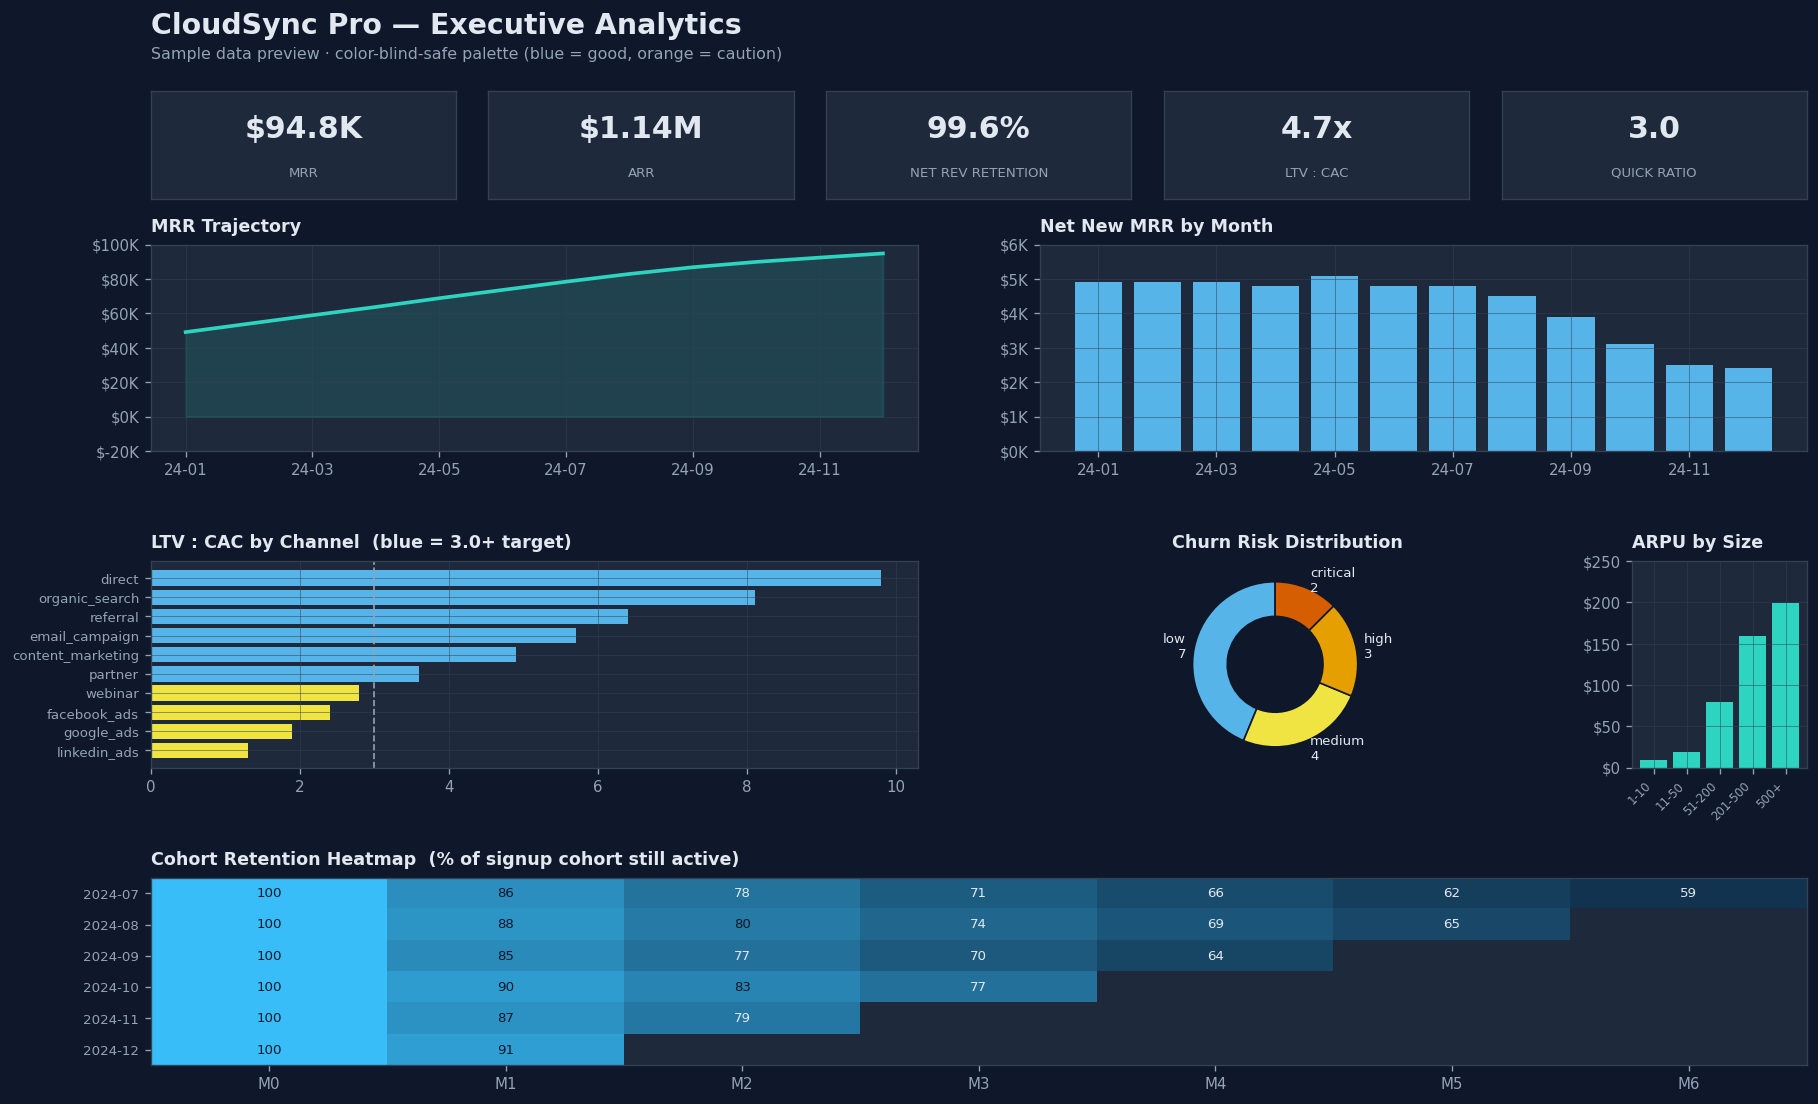
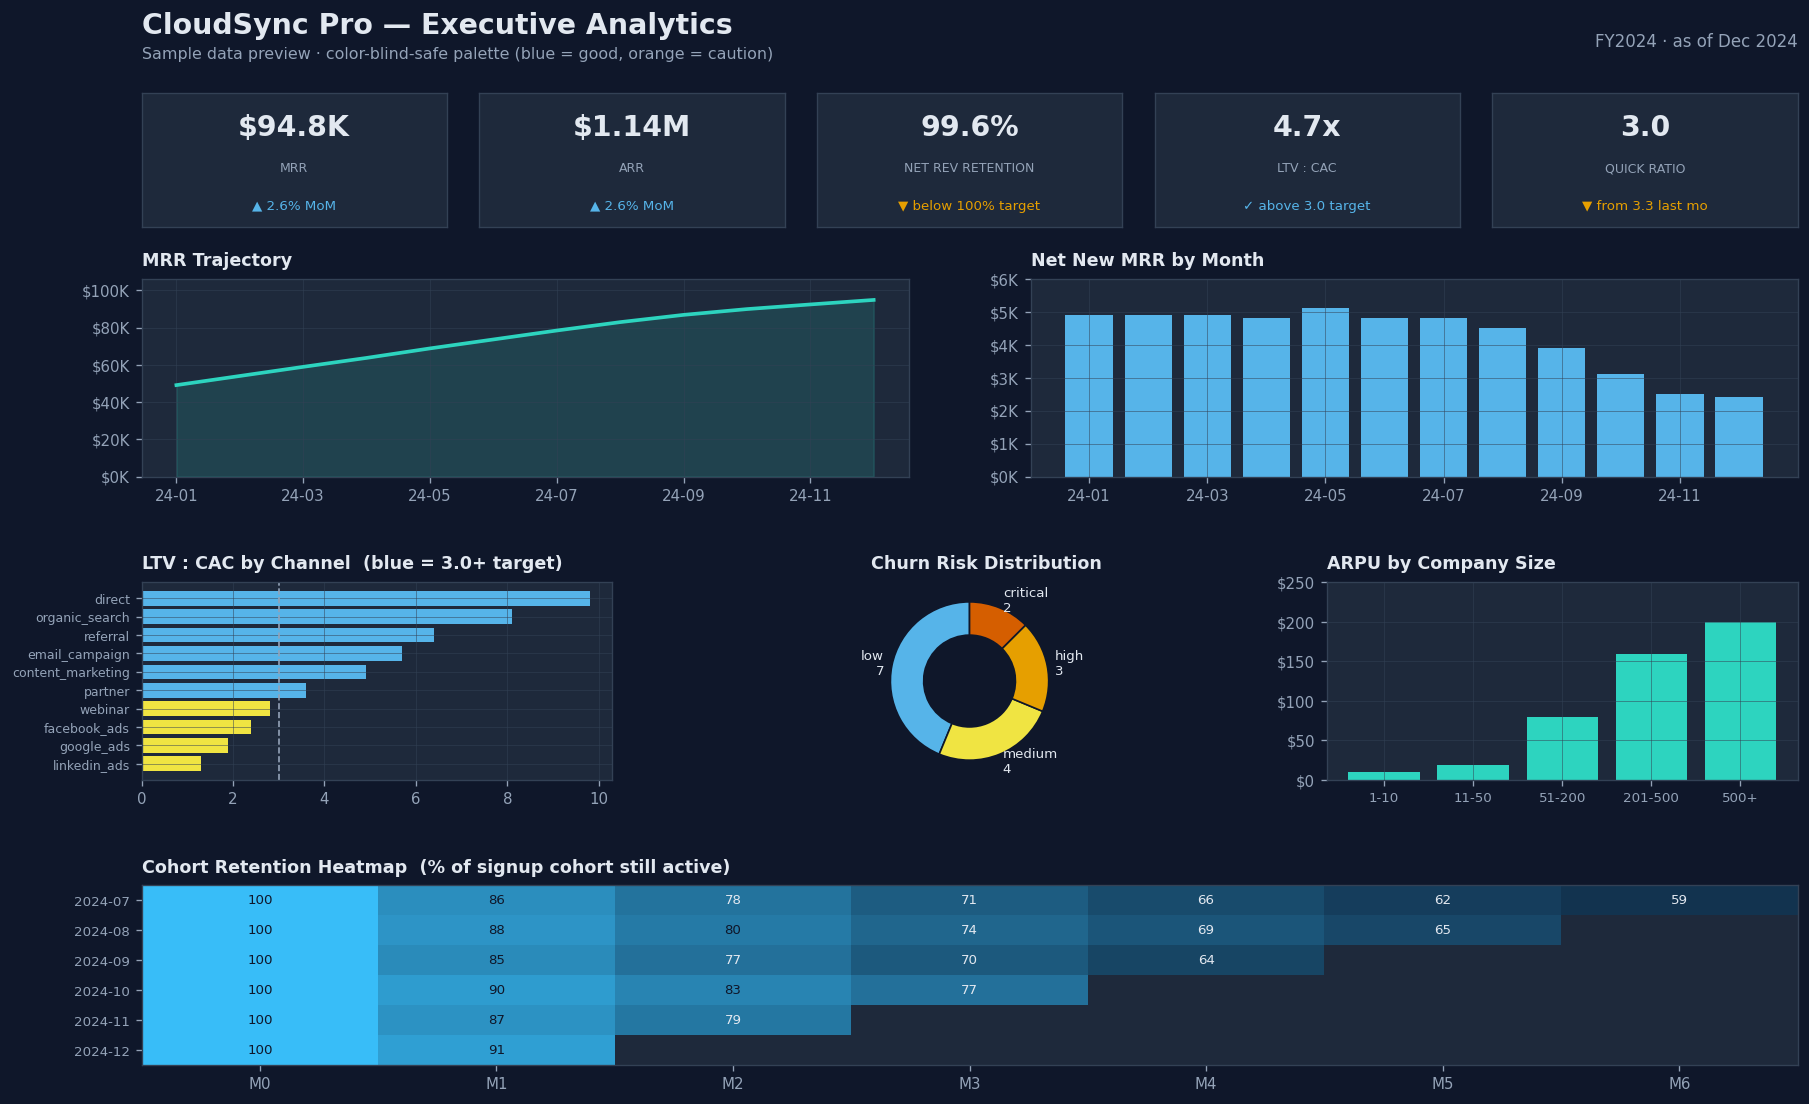
Apply design-critique fixes to dashboard mockups
- KPI cards now carry a delta/status line (MoM % for MRR/ARR, Quick Ratio
  vs last month), with NRR flagged orange "below 100% target" and LTV:CAC
  marked against the 3.0 target -- numbers now convey judgment, not just value
- MRR Trajectory y-axis floored at 0 (removed negative dead space)
- Row 3 rebalanced to even thirds so ARPU is no longer cramped
- Added an "FY2024 - as of Dec 2024" period label

Re-rendered both dark and light themes.

diff --git a/powerbi/CloudSyncPro/make_mockup.py b/powerbi/CloudSyncPro/make_mockup.py
@@ -52,12 +52,29 @@ netnew = [float(r["net_new_mrr"]) for r in mrr]
 last = mrr[-1]
 mrr_v = float(last["ending_mrr"])
 
+# prior-month context for KPI deltas
+prev = mrr[-2]
+mrr_prev = float(prev["ending_mrr"])
+mrr_mom = (mrr_v - mrr_prev) / mrr_prev * 100
+nrr_v = float(last["nrr_pct"])
+qr_v, qr_prev = float(last["quick_ratio"]), float(prev["quick_ratio"])
+ltvcac = sum(float(r["ltv_to_cac_ratio"]) for r in ue) / len(ue)
+
+
+def arrow(x):
+    return "▲" if x >= 0 else "▼"   # ▲ / ▼
+
+
+# (label, value, delta/status line, sentiment key)
 kpis = [
-    ("MRR", f"${mrr_v/1000:.1f}K"),
-    ("ARR", f"${mrr_v*12/1e6:.2f}M"),
-    ("Net Rev Retention", f"{float(last['nrr_pct']):.1f}%"),
-    ("LTV : CAC", f"{sum(float(r['ltv_to_cac_ratio']) for r in ue)/len(ue):.1f}x"),
-    ("Quick Ratio", f"{float(last['quick_ratio']):.1f}"),
+    ("MRR", f"${mrr_v/1000:.1f}K", f"{arrow(mrr_mom)} {abs(mrr_mom):.1f}% MoM", "pos" if mrr_mom >= 0 else "neg"),
+    ("ARR", f"${mrr_v*12/1e6:.2f}M", f"{arrow(mrr_mom)} {abs(mrr_mom):.1f}% MoM", "pos" if mrr_mom >= 0 else "neg"),
+    ("Net Rev Retention", f"{nrr_v:.1f}%",
+     ("▼ below 100% target" if nrr_v < 100 else "▲ above 100%"),
+     "neg" if nrr_v < 100 else "pos"),
+    ("LTV : CAC", f"{ltvcac:.1f}x", "✓ above 3.0 target", "pos"),
+    ("Quick Ratio", f"{qr_v:.1f}", f"{arrow(qr_v - qr_prev)} from {qr_prev:.1f} last mo",
+     "pos" if qr_v >= qr_prev else "neg"),
 ]
 
 ue_sorted = sorted(ue, key=lambda r: float(r["ltv_to_cac_ratio"]))
@@ -89,25 +106,28 @@ def build(T):
                          "xtick.color": T["muted"], "ytick.color": T["muted"], "font.size": 9})
     fig = plt.figure(figsize=(15, 9.5), dpi=120, facecolor=T["bg"])
     gs = GridSpec(3, 6, figure=fig, height_ratios=[1.1, 1.1, 1.0],
-                  hspace=0.55, wspace=0.7, left=0.05, right=0.97, top=0.78, bottom=0.06)
+                  hspace=0.55, wspace=0.7, left=0.05, right=0.97, top=0.75, bottom=0.06)
 
     fig.text(0.05, 0.965, "CloudSync Pro — Executive Analytics", fontsize=17,
              fontweight="bold", color=T["text"])
     fig.text(0.05, 0.943,
              "Sample data preview · color-blind-safe palette (blue = good, orange = caution)",
              fontsize=9.5, color=T["muted"])
+    fig.text(0.97, 0.958, "FY2024 · as of Dec 2024", fontsize=10, color=T["muted"],
+             ha="right", va="center")
 
-    # KPI cards — evenly distributed across the full width
+    # KPI cards — evenly distributed, each with a delta / status line
     n, L, R, gap = len(kpis), 0.05, 0.97, 0.018
     w = (R - L - (n - 1) * gap) / n
-    for i, (label, val) in enumerate(kpis):
-        ax = fig.add_axes([L + i * (w + gap), 0.82, w, 0.095])
+    for i, (label, val, delta, sentiment) in enumerate(kpis):
+        ax = fig.add_axes([L + i * (w + gap), 0.795, w, 0.118])
         ax.set_facecolor(T["surf"])
         for s in ax.spines.values():
             s.set_color(T["grid"])
         ax.set_xticks([]); ax.set_yticks([])
-        ax.text(0.5, 0.64, val, ha="center", va="center", fontsize=18, fontweight="bold", color=T["text"])
-        ax.text(0.5, 0.24, label.upper(), ha="center", va="center", fontsize=8, color=T["muted"])
+        ax.text(0.5, 0.74, val, ha="center", va="center", fontsize=17, fontweight="bold", color=T["text"])
+        ax.text(0.5, 0.44, label.upper(), ha="center", va="center", fontsize=7.5, color=T["muted"])
+        ax.text(0.5, 0.16, delta, ha="center", va="center", fontsize=8, color=T[sentiment])
 
     def style(ax, title):
         ax.set_facecolor(T["surf"])
@@ -121,8 +141,10 @@ def build(T):
     ax = fig.add_subplot(gs[0, 0:3]); style(ax, "MRR Trajectory")
     ax.plot(months, ending, color=T["accent"], linewidth=2.2)
     ax.fill_between(range(len(months)), ending, color=T["accent"], alpha=0.15)
+    ax.set_ylim(0, max(ending) * 1.12)          # floor at 0 — no negative dead space
     ax.set_xticks(range(0, len(months), 2)); ax.set_xticklabels(months[::2])
     ax.set_yticks(ax.get_yticks()); ax.set_yticklabels([f"${int(t/1000)}K" for t in ax.get_yticks()])
+    ax.set_ylim(0, max(ending) * 1.12)
 
     # Net New MRR
     ax = fig.add_subplot(gs[0, 3:6]); style(ax, "Net New MRR by Month")
@@ -131,13 +153,13 @@ def build(T):
     ax.set_yticks(ax.get_yticks()); ax.set_yticklabels([f"${int(t/1000)}K" for t in ax.get_yticks()])
 
     # LTV:CAC by channel
-    ax = fig.add_subplot(gs[1, 0:3]); style(ax, "LTV : CAC by Channel  (blue = 3.0+ target)")
+    ax = fig.add_subplot(gs[1, 0:2]); style(ax, "LTV : CAC by Channel  (blue = 3.0+ target)")
     ax.barh(ue_ch, ue_val, color=[T["pos"] if v >= 3 else T["warn"] for v in ue_val])
     ax.axvline(3.0, color=T["muted"], linestyle="--", linewidth=1)
-    ax.tick_params(axis="y", labelsize=8)
+    ax.tick_params(axis="y", labelsize=7.5)
 
     # Churn risk donut
-    ax = fig.add_subplot(gs[1, 3:5]); ax.set_facecolor(T["surf"])
+    ax = fig.add_subplot(gs[1, 2:4]); ax.set_facecolor(T["surf"])
     ax.set_title("Churn Risk Distribution", color=T["text"], fontsize=10.5, fontweight="bold", loc="left", pad=8)
     band_cols = {"low": T["pos"], "medium": T["warn"], "high": T["neg"], "critical": T["crit"]}
     ax.pie(list(band_ct.values()), colors=[band_cols[b] for b in band_order], startangle=90,
@@ -145,10 +167,10 @@ def build(T):
            labels=[f"{b}\n{m}" for b, m in band_ct.items()],
            textprops=dict(color=T["text"], fontsize=8))
 
-    # ARPU by company size
-    ax = fig.add_subplot(gs[1, 5]); style(ax, "ARPU by Size")
+    # ARPU by company size (2 cols — no cramped rotation)
+    ax = fig.add_subplot(gs[1, 4:6]); style(ax, "ARPU by Company Size")
     ax.bar(size_order, arpu, color=T["accent"])
-    ax.set_xticks(range(len(size_order))); ax.set_xticklabels(size_order, rotation=45, ha="right", fontsize=7)
+    ax.set_xticks(range(len(size_order))); ax.set_xticklabels(size_order, fontsize=8)
     ax.set_yticks(ax.get_yticks()); ax.set_yticklabels([f"${int(t)}" for t in ax.get_yticks()])
 
     # Cohort retention heatmap
